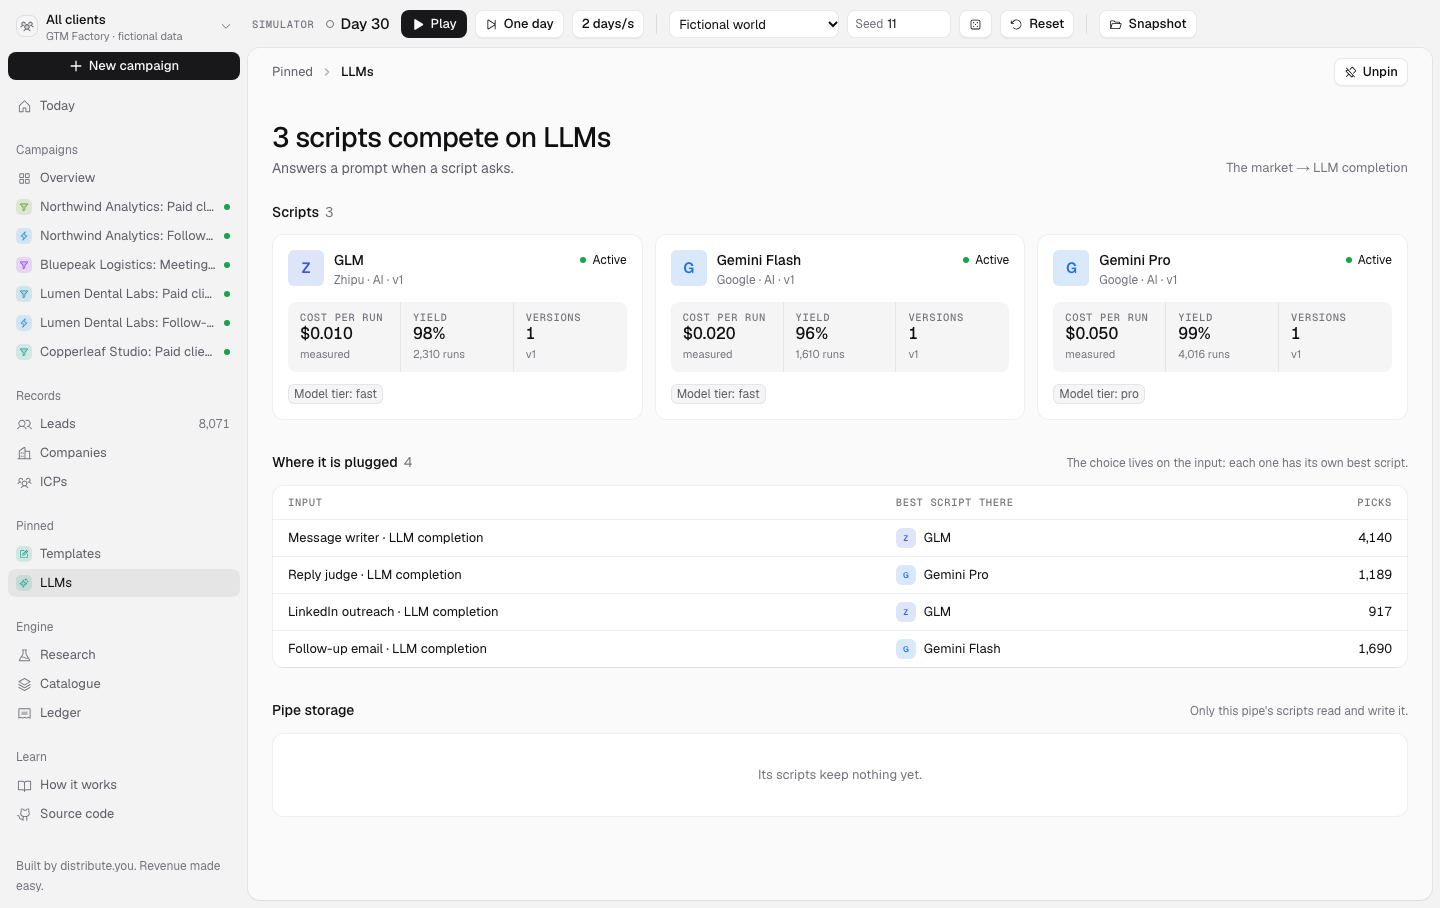
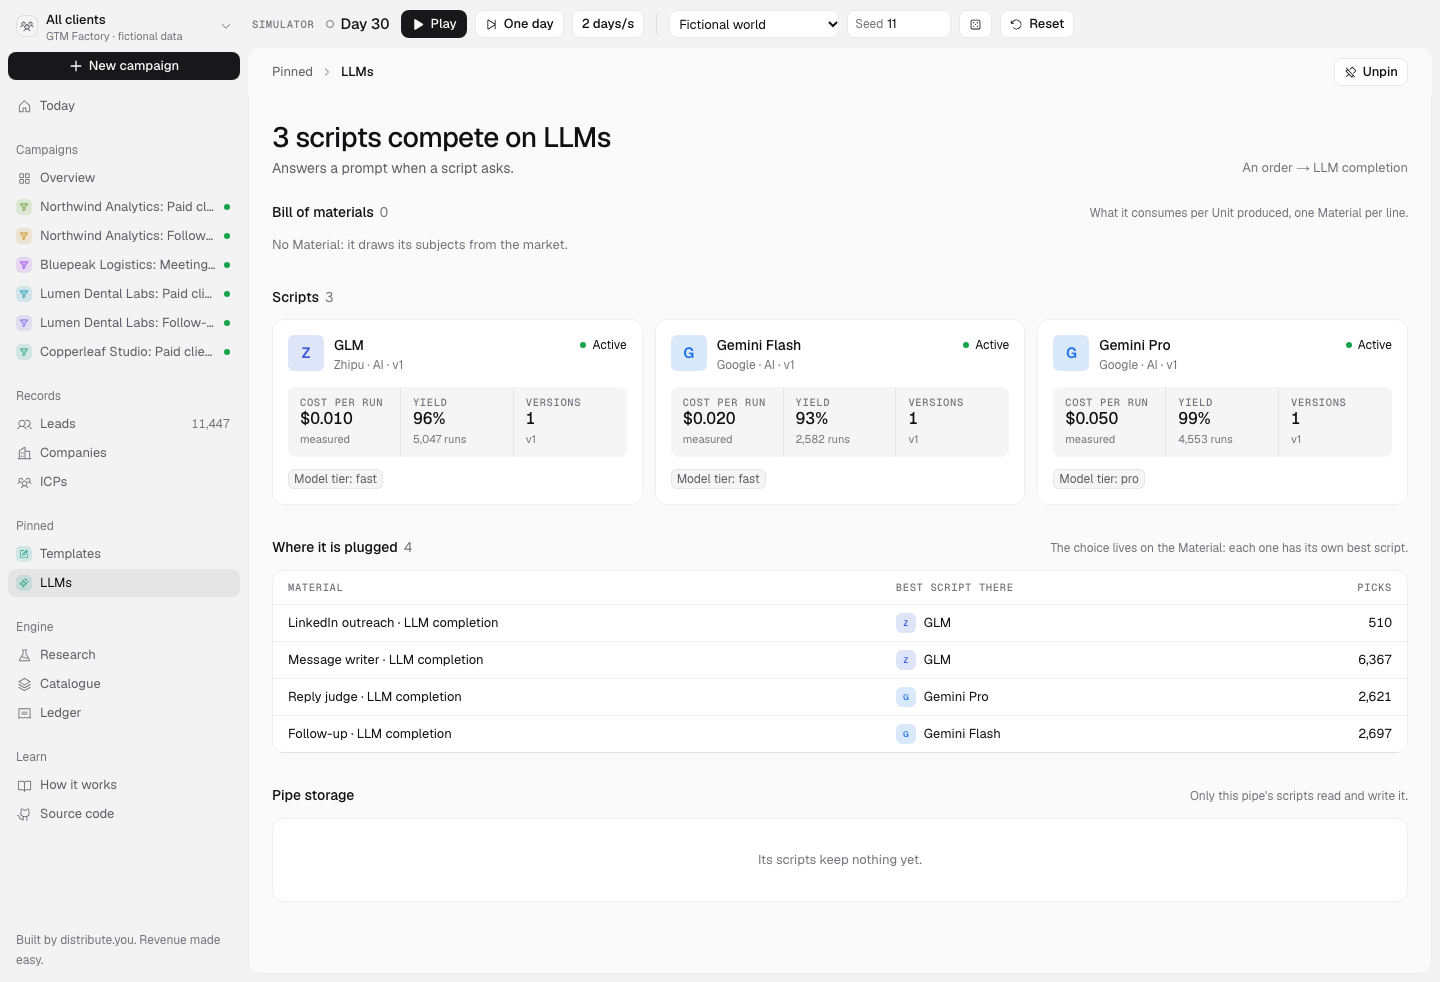
feat: v4 copy, screenshots

diff --git a/apps/dashboard/src/components/pages/research.tsx b/apps/dashboard/src/components/pages/research.tsx
@@ -43,7 +43,7 @@ function Research({ model }: { model: Model }) {
             {converged} of {big} choice points back their hidden best
           </>
         }
-        sub="Every choice, made by one prioritizer. The world hides the true best option at each Material; here is how fast the engine finds it."
+        sub="Every choice, made by one prioritizer. The world hides the true best option at each Material; here is how fast the Supplier rating finds it."
         right={<span>Day {model.day}</span>}
       />
 
@@ -111,7 +111,7 @@ function PointDetail({ model, point }: { model: Model; point: string }) {
         <StatTile label="On the hidden best" note="last 7 days">
           <Figure value={formatRatePct(share)} tone={share != null && share >= 0.8 ? "run" : undefined} />
         </StatTile>
-        <StatTile label="First 10 days" note="the engine knew nothing">
+        <StatTile label="First 10 days" note="nothing was known yet">
           <Figure value={formatRatePct(first && first.p > 0 ? first.b / first.p : null)} tone="muted" />
         </StatTile>
         <StatTile label="Picks" note={`${campaigns.length} campaigns`}>
@@ -131,7 +131,7 @@ function PointDetail({ model, point }: { model: Model; point: string }) {
             <SectionTitle count={row.options.length} right={<span>{brand}</span>}>
               {c.name}
             </SectionTitle>
-            <CardTable footer="Belief = what the engine reads today. Hidden truth = what the world really does, never read by the engine.">
+            <CardTable footer="Belief = what the Rating reads today. Hidden truth = what the world really does, never read by any choice.">
               <thead>
                 <tr className="k-line-subtle border-b">
                   <th className={TH}>Option</th>

diff --git a/apps/dashboard/src/lib/model.ts b/apps/dashboard/src/lib/model.ts
@@ -115,7 +115,7 @@ export function factoryName(catalogue: Catalogue, id: string): string {
 
 /** A pipe in one line: its Bill of materials, then what it makes. */
 export function pipeLine(catalogue: Catalogue, pipe: Pipe): string {
-  const ins = pipe.materials.length ? pipe.materials.map((i) => outcomeLabel(catalogue, i)).join(" + ") : pipe.webhook ? "A webhook call" : catalogue.createsSubjects(pipe) || catalogue.outcome(pipe.output)?.subject === "lead" ? "The market" : "Nothing";
+  const ins = pipe.materials.length ? pipe.materials.map((i) => outcomeLabel(catalogue, i)).join(" + ") : pipe.webhook ? "A webhook call" : catalogue.createsSubjects(pipe) || catalogue.outcome(pipe.output)?.subject === "lead" ? "The market" : "An order";
   return `${ins} → ${outcomeLabel(catalogue, pipe.output)}`;
 }
 
@@ -165,7 +165,7 @@ export function billOfMaterials(model: Model, pipe: Pipe): MaterialRow[] {
             : m === subject
               ? "The Unit it works on: pulled or pushed"
               : "From the stock for this subject, else ordered";
-    return { material: m, label: outcomeLabel(c, m), subject: m === subject, producers: c.providersOf(m), how, point: series.size > 0 ? point : null, choice: choice ? optionLabel(model, point, choice) : null, picks };
+    return { material: m, label: outcomeLabel(c, m), subject: m === subject, producers: c.providersOf(m), how, point: series.size > 0 && choice ? point : null, choice: choice ? optionLabel(model, point, choice) : null, picks };
   });
 }
 

diff --git a/apps/dashboard/src/components/api/brands.tsx b/apps/dashboard/src/components/api/brands.tsx
@@ -166,7 +166,7 @@ export function ApiNewBrandPage() {
             <Field label="Who it sells to" hint="One plain sentence. Example: heads of sales at US software companies with 50 to 500 people.">
               <textarea className="k-input min-h-[56px] w-full py-1.5" style={{ font: "inherit", height: "auto" }} value={icp} onChange={(e) => setIcp(e.target.value)} />
             </Field>
-            <Field label="Lifetime revenue of one client (optional)" hint="In dollars. The engine values a paid client at this amount.">
+            <Field label="Lifetime revenue of one client (optional)" hint="In dollars. A paid client is valued at this amount.">
               <label className="k-input flex w-48 items-center gap-1 px-2">
                 <span className="k-fg3">$</span>
                 <input className="w-full min-w-0 bg-transparent tabular-nums outline-none" style={{ font: "inherit" }} value={ltv} onChange={(e) => setLtv(e.target.value.replace(/[^0-9.]/g, ""))} />

diff --git a/apps/dashboard/src/app/layout.tsx b/apps/dashboard/src/app/layout.tsx
@@ -12,7 +12,7 @@ const mono = Geist_Mono({ subsets: ["latin"], variable: "--font-geist-mono" });
 
 export const metadata: Metadata = {
   title: "GTM Factory: revenue made easy",
-  description: "An open agentic GTM factory, live. Pick a client, ask for paid clients, and watch the engine choose every funnel, workflow, template and LLM by value per dollar.",
+  description: "An open agentic GTM factory, live. Pick a client, ask for paid clients, and watch the Supplier rating choose every funnel, script, template and LLM by value per dollar.",
 };
 
 export default function RootLayout({ children }: { children: React.ReactNode }) {

diff --git a/apps/dashboard/src/components/api/research.tsx b/apps/dashboard/src/components/api/research.tsx
@@ -17,7 +17,7 @@ export function ApiResearchPage() {
             <>
               <PageHeader
                 title={plural(points.length, "choice point", "choice points")}
-                sub="At every Material where several options compete, the belief the engine holds about each one. It picks by value per dollar, with one Thompson draw."
+                sub="At every Material where several options compete, the belief the Supplier rating holds about each one. The choosing pipe picks by value per dollar, with one Thompson draw."
               />
               <PointsList points={points} />
             </>

diff --git a/apps/dashboard/src/components/pages/today.tsx b/apps/dashboard/src/components/pages/today.tsx
@@ -221,7 +221,7 @@ export function WhyFeed({ model, campaignIds, limit = 8 }: { model: Model; campa
   const items = recentChoices(model, campaignIds, limit);
   return (
     <section>
-      <SectionTitle right={<span>Newest first</span>}>Why the engine chose</SectionTitle>
+      <SectionTitle right={<span>Newest first</span>}>Why each choice was made</SectionTitle>
       <div className="k-card divide-y divide-[var(--line-subtle)]">
         {items.length === 0 && <EmptyNote>No choice yet. Press play.</EmptyNote>}
         {items.map((c, i) => {

diff --git a/apps/dashboard/src/components/pages/new-campaign.tsx b/apps/dashboard/src/components/pages/new-campaign.tsx
@@ -133,7 +133,7 @@ function Flow({ model }: { model: Model }) {
 
   return (
     <>
-      <PageHeader title="New campaign" sub="Say who it is for and what you want. The engine ranks the sales funnels by value per dollar." />
+      <PageHeader title="New campaign" sub="Say who it is for and what you want. The sales funnels are ranked by value per dollar." />
       <ol className="mb-6 flex flex-wrap gap-2" aria-label="Steps">
         {STEPS.map((s, i) => {
           const at = STEPS.findIndex((x) => x.id === step);

diff --git a/apps/dashboard/src/components/pages/campaigns.tsx b/apps/dashboard/src/components/pages/campaigns.tsx
@@ -281,7 +281,7 @@ function CampaignView({ model, campaign }: { model: Model; campaign: Campaign })
       <Plays model={model} campaign={campaign} />
 
       <section className="mb-8">
-        <SectionTitle count={points.length} right={<span>In the order the engine decides them for each subject</span>}>
+        <SectionTitle count={points.length} right={<span>In the order they are made for each subject</span>}>
           Choices at each Material
         </SectionTitle>
         {points.length === 0 ? (

diff --git a/apps/dashboard/src/components/api/today.tsx b/apps/dashboard/src/components/api/today.tsx
@@ -115,7 +115,7 @@ function Today({ o }: { o: ApiOverview }) {
       </section>
 
       <section className="mt-8">
-        <SectionTitle count={o.recentChoices.length}>Why the engine chose</SectionTitle>
+        <SectionTitle count={o.recentChoices.length}>Why each choice was made</SectionTitle>
         <ChoicesTable choices={o.recentChoices} empty="No choice yet. Launch a campaign and the first tick makes them." />
       </section>
 

diff --git a/apps/dashboard/src/components/api/campaigns.tsx b/apps/dashboard/src/components/api/campaigns.tsx
@@ -159,7 +159,7 @@ function Campaign({ d, catalogue }: { d: ApiCampaignDetail; catalogue: Catalogue
       </section>
 
       <section className="mt-8">
-        <SectionTitle count={d.recentChoices.length}>Why the engine chose</SectionTitle>
+        <SectionTitle count={d.recentChoices.length}>Why each choice was made</SectionTitle>
         <ChoicesTable choices={d.recentChoices} />
       </section>
 
